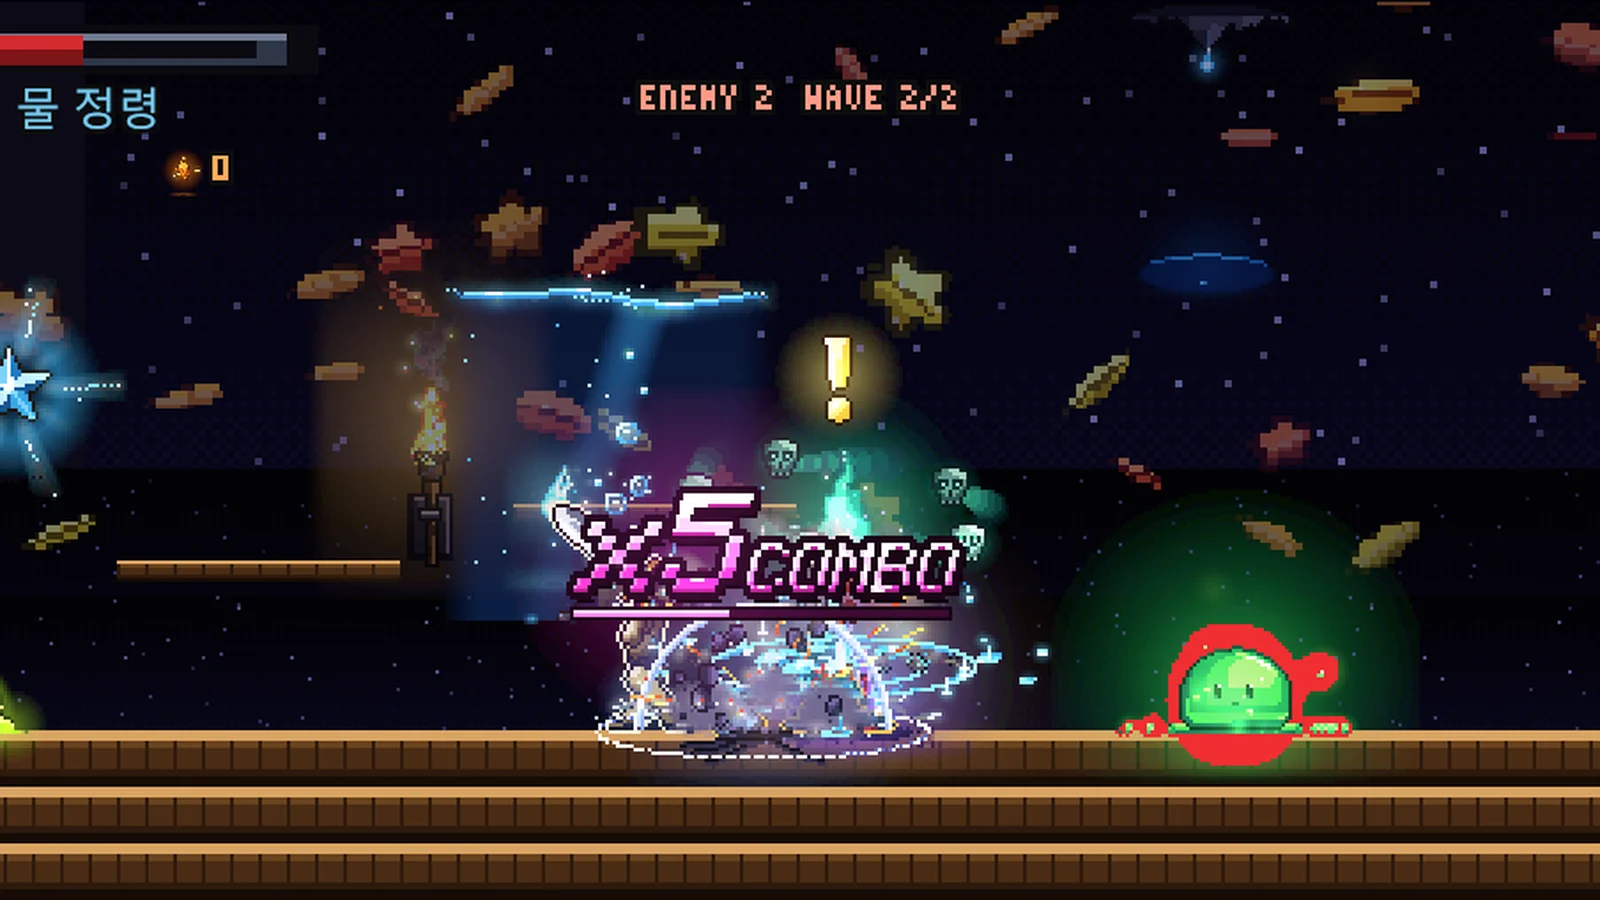
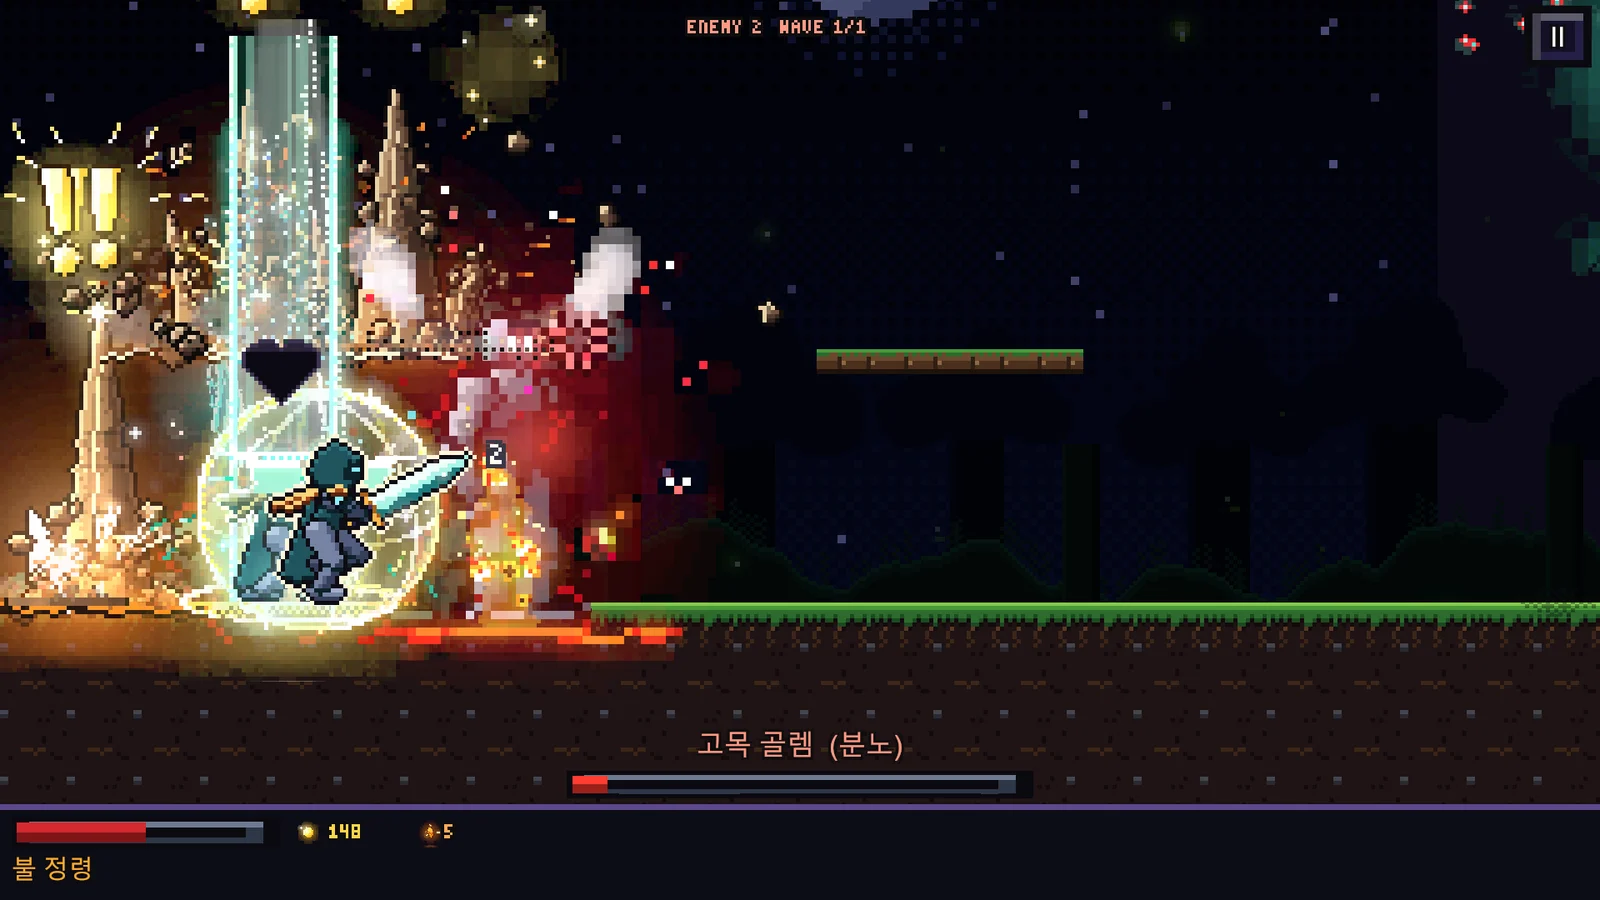
게임 7종 Google Play 출시 반영: 정식 이름·패키지·이미지 업데이트
- 잔혹동화(가제) → 별을 삼킨 밤 (com.jcodelab.starnight), 스토어 그래픽으로 대표 이미지 교체
- Rift Spirit: 패키지 com.jcodelab.riftspirit, 최신 보스전 화면으로 교체
- 좀비 디펜스(가제) → Horde Defense (com.jcodelab.hordedefense)
- 소식: 7종 출시 완료 공지

Claude-Session: https://claude.ai/code/session_0196py3fqoihnHzAVFjdmJqT

diff --git a/lib/data.ts b/lib/data.ts
@@ -140,38 +140,38 @@ export const games: Game[] = [
     stores: { googlePlay: play("com.jcodelab.undeadhorde") },
   },
   {
-    id: "panel-story",
-    title: "잔혹동화", // [가제]
+    id: "star-night",
+    title: "별을 삼킨 밤",
     genre: "그림 패널 퍼즐",
     platforms: ["android"],
     engine: "Unity",
     summary: "그림 조각을 맞추면, 동화가 다시 흘러갑니다",
     description:
       "한 장씩 그려진 그림 패널을 옮기고 겹쳐 길을 이어 가는 스토리 퍼즐 게임입니다. 화마다 새로운 잔혹동화와 함께 다른 동물 친구가 따라다니며, 갈수록 새로운 형태의 퍼즐이 등장합니다.",
-    image: "/games/panel-story.webp",
+    image: "/games/star-night.webp",
     status: "free",
     price: 0,
     features: ["그림 패널 퍼즐", "화별 스토리", "동물 동료", "아련한 동화 일러스트", "무료 플레이"],
-    stores: {}, // TODO: Google Play 주소 (Unity에 Android 패키지 이름이 아직 없음)
+    stores: { googlePlay: play("com.jcodelab.starnight") },
   },
   {
     id: "rift-spirit",
     title: "Rift Spirit",
-    genre: "2D 횡스크롤 액션",
+    genre: "픽셀 액션",
     platforms: ["android"],
     engine: "Unity",
     summary: "불타는 대지를 가르는 한 자루의 검",
     description:
-      "화산과 폐허, 빙하를 넘나들며 거대한 보스와 맞서는 픽셀 아트 횡스크롤 액션 게임입니다. 화려한 픽셀 이펙트의 스킬과 콤보로 싸웁니다.",
+      "화산과 폐허, 빙하를 넘나들며 거대한 보스와 맞서는 픽셀 아트 액션 게임입니다. 정령의 힘을 빌린 스킬과 콤보로 싸웁니다.",
     image: "/games/rift-spirit.webp",
     status: "free",
     price: 0,
     features: ["픽셀 아트 액션", "보스 전투", "스킬 · 콤보", "다양한 지역", "무료 플레이"],
-    stores: { googlePlay: play("com.riftspirit.game") },
+    stores: { googlePlay: play("com.jcodelab.riftspirit") },
   },
   {
     id: "horde-defense",
-    title: "좀비 디펜스", // [가제]
+    title: "Horde Defense",
     genre: "물량 디펜스",
     platforms: ["android"],
     engine: "Unity",
@@ -182,7 +182,7 @@ export const games: Game[] = [
     status: "free",
     price: 0,
     features: ["대규모 좀비 물량", "기지 · 타워 건설", "다양한 몬스터", "무료 플레이"],
-    stores: {}, // TODO: Google Play 주소 (Unity에 Android 패키지 이름이 아직 없음)
+    stores: { googlePlay: play("com.jcodelab.hordedefense") },
   },
   {
     id: "speaking-grammar",
@@ -217,10 +217,10 @@ export type NewsCat = "공지" | "업데이트" | "개발일지" | "이벤트";
 
 /** 메인 "소식" 목록. 최신 글이 위로 오게 적어 주세요. */
 export const news: { cat: NewsCat; title: string; date: string; game?: string }[] = [
-  { cat: "공지", title: "JCodeLab의 모든 게임, Google Play에서 만나 보세요", date: "2026.11.06" },
-  { cat: "공지", title: "체인 팝, Google Play 출시", date: "2026.11.05", game: "체인 팝" },
+  { cat: "공지", title: "JCodeLab 게임 7종, Google Play 출시 완료", date: "2026.11.17" },
+  { cat: "공지", title: "잔혹동화 패널 퍼즐 '별을 삼킨 밤' 출시", date: "2026.11.17", game: "별을 삼킨 밤" },
+  { cat: "공지", title: "Rift Spirit · Horde Defense, Google Play 출시", date: "2026.11.17", game: "Rift Spirit" },
   { cat: "업데이트", title: "언데드 호드, 픽셀화된 3D 그래픽으로 새 단장", date: "2026.11.04", game: "언데드 호드" },
-  { cat: "공지", title: "캔디 점프, Google Play 출시", date: "2026.10.27", game: "캔디 점프" },
   { cat: "개발일지", title: "JCodeLab의 모든 게임은 이제 Unity로 만듭니다", date: "2026.10.25" },
   { cat: "공지", title: "JCodeLab 공식 홈페이지를 새롭게 열었습니다", date: "2026.10.24" },
 ];
